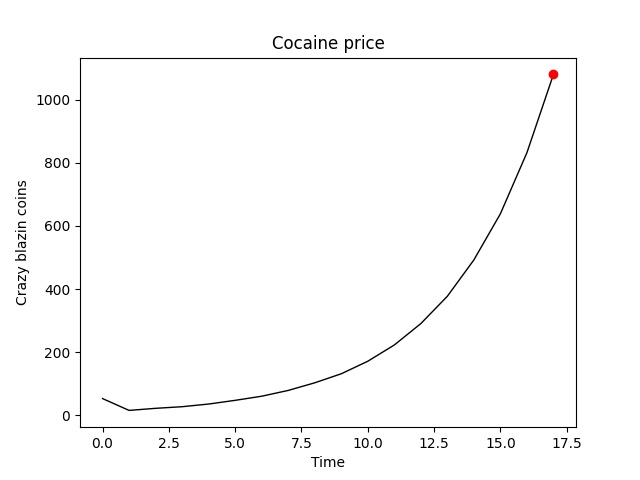
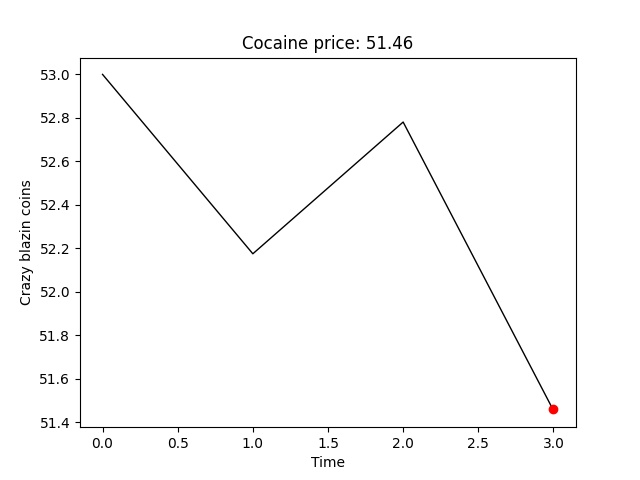
.

diff --git a/economy_bot/dev/cbm_dev.py b/economy_bot/dev/cbm_dev.py
@@ -22,7 +22,16 @@ import requests
 
 #https://discordapp.com/developers
 
-# k = 'ODMxOTE4MjA5NDA4OTU4NTE0.YHcONQ.rg3vu8FXZCXUOqtBwcdwCbZaNZ8'
+
+
+
+shop_items = {'Snake gun': [10, 100, 1, ':snake:'], 
+                'Revolver': [24, 200, 2, ':gun:'], 
+                'Acid dispenser': [38, 300, 3, ':leafy_green:'], 
+                'Ak47': [173, 950, 4, '<:ak47_emo:850092688132145192>'], 
+                'Battlecruiser': [510 , 3100, 5, ':ship:'],
+                'Ahegao Princess': [2110 , 25000, 6, '<:aegao:850090913815986198>']
+                }
 
 class Database:
     def __init__(self):
@@ -107,38 +116,51 @@ class Gullfugl:
         self.dmglog = {}
         self.name_list = ['An armored gullfugl', 'A cute gullfugl', 'A rare gullfugl', 'A retarded gullfugl']
         self.name = np.random.choice(self.name_list, 1)[0]
-        self.hp = np.random.randint(500,100000)
-        self.drop = self.hp*0.3
+        self.hp = np.random.randint(250,5000)
+        self.drop = self.hp*0.2
 
 
-class Cocaine:
-    def __init__(self):
-        self.price = [53]
+
+
+class Stonks:
+    stonks = []
+    def __init__(self, name = 'Cocaine', init_price = 53, drift = 0.002, variance = 1):
+        self.price = [init_price]
         self.current_price = self.price[-1]
+        self.name = name
+        self.variance = variance
+        self.drift = drift
+        self.stonks.append(self)
 
     
     def move_price(self):
-        self.price.append(0.002 + self.price[-1] + np.random.normal(0,1))
+        self.price.append(self.drift + self.price[-1] + np.random.normal(0, self.variance))
         if self.price[-1] <= 0:
-            self.price[-1] = 1
+            self.price[-1] = 0
 
-        self.current_price = self.price[-1]
+        self.current_price = round(self.price[-1], 2)
 
-        with open('cocaine.txt', 'a') as f:
-            f.write(str(self.price[-1]))
-        plt.plot(self.price[-1000:], linewidth = 1, color = 'black')
-        plt.plot(len(self.price[-1000:])-1, self.current_price, 'o', color = 'red')
-        plt.title(f'Cocaine price: {self.current_price}')
-        plt.ylabel('Crazy blazin coins')
-        plt.xlabel('Time')
-        plt.savefig('cocaine.jpg')
+    @staticmethod
+    def plot_results():
+        fig, ax = plt.subplots(1, len(Stonks.stonks))
+        colors = ['black', 'black']
+        color_tip = ['red', 'blue']
+        for i, stonk in enumerate(Stonks.stonks):
+            ax[i].plot(stonk.price[-1000:], linewidth = 1, color = colors[i])
+            ax[i].plot(len(stonk.price[-1000:])-1, stonk.current_price, 'o', color = color_tip[i])
+            ax[i].plot(len(stonk.price[-1000:])-1, stonk.current_price, 'o', color = color_tip[i], fillstyle = 'none', markersize = 10)
+            ax[i].plot(len(stonk.price[-1000:])-1, stonk.current_price, 'o', color = color_tip[i], fillstyle = 'none', markersize = 15)
+            ax[i].set_title(f'{i+1}. {stonk.name} \n price: {stonk.current_price}')
+            ax[i].set_ylabel('Crazy blazin coins')
+            ax[i].set_xlabel('Time')
+        plt.tight_layout()
+        plt.savefig('stonk.jpg')
         plt.close()
 
-        return self.current_price
 
 
-cocaine = Cocaine()
-
+cocaine = Stonks(name = 'Cocaine', init_price = 82.48, drift = 0.002, variance = 1)
+Ingamersh = Stonks(name = 'Ingamersh verksted', init_price = 159, drift = 0.001, variance = 5)
 
 
 class MyClient(discord.Client):
@@ -160,6 +182,8 @@ class MyClient(discord.Client):
                 users[member.name] = {'Coins': 500, 'Tickets': 1, 'Timer': 0, 'BoostTimer': 0, 'Boosters': 0, 'Actives': [], 'weapons': {'Kick': [2, 1, ':foot:']}}
             if 'cocaine' not in users[member.name]:
                 users[member.name]['cocaine'] = 0
+            if 'ingamersh' not in users[member.name]:
+                users[member.name]['ingamersh'] = 0
 
 
         members = self.get_all_members()
@@ -259,7 +283,9 @@ class MyClient(discord.Client):
             await channel.send(embed=embed)
 
 
-        cocaine.move_price() # move cocaine price
+        for stonk in Stonks.stonks:
+            stonk.move_price() # move cocaine price
+        Stonks.plot_results()
 
         events_handler.db.write(users)
         return users
@@ -374,11 +400,13 @@ async def on_message(message):
         ticket = users[message.author.name]['Tickets']
         boosts = users[message.author.name]['Boosters']
         cocaine_wealth = users[message.author.name]['cocaine']
+        ingamersh_wealth = users[message.author.name]['ingamersh']
         embed = discord.Embed(title=f"Balance", description=f"{message.author.name} current balance") #,color=Hex code
 
-        embed.add_field(name=f"<:CBCcoin:831506214659293214> (CBC)", value=f'{value}')
+        embed.add_field(name=f"<:CBCcoin:831506214659293214> (CBC)", value=f'{round(value,2)}')
         embed.add_field(name=f":tickets: (tickets)", value=f'{ticket}')
-        embed.add_field(name=f":salt: (cocaine)", value=f'{cocaine_wealth} worth: {cocaine_wealth*cocaine.current_price} <:CBCcoin:831506214659293214>')
+        embed.add_field(name=f":salt: (cocaine)", value=f'{cocaine_wealth} worth: {round(cocaine_wealth*cocaine.current_price,2)} <:CBCcoin:831506214659293214>')
+        embed.add_field(name=f":house_with_garden:  (Ingamersh verksted)", value=f'{ingamersh_wealth} worth: {round(ingamersh_wealth*Ingamersh.current_price,2)} <:CBCcoin:831506214659293214>')
         tot_dmg = 0
         for weapon in users[message.author.name]['weapons']:
             # [shop_items[weapon][1], amount]
@@ -552,7 +580,6 @@ async def on_message(message):
     
     if message.content.startswith('!shop'):
 
-        shop_items = {'Snake gun': [10, 100, 1, ':snake:'], 'Revolver': [24, 200, 2, ':gun:'], 'Acid dispenser': [38, 300, 3, ':leafy_green:'], 'Battlecruiser': [510 , 3100, 4, ':ship:']}
         embed = discord.Embed(title=f"Weapon Shop", description=f"Weapons for damaging the gullfugl! To buy item use !buy weapons <index> <amount>") #,color=Hex code
         for weapon in shop_items:
             dmg = shop_items[weapon][0]
@@ -570,7 +597,6 @@ async def on_message(message):
         else:
             index = int(str_split[2])*np.sign(int(str_split[2]))
             amount = int(str_split[-1])*np.sign(int(str_split[-1]))
-            shop_items = {'Snake gun': [10, 100, 1, ':snake:'], 'Revolver': [24, 200, 2, ':gun:'], 'Acid dispenser': [38, 300, 3, ':leafy_green:'], 'Battlecruiser': [510 , 3100, 4, ':ship:']}
 
             for weapon in shop_items:
                 if shop_items[weapon][2] == index:
@@ -587,26 +613,38 @@ async def on_message(message):
 
 
 
-    if message.content.startswith('!cocaine'):
-        embed = discord.Embed(title=f"Cocaine stonk", description=f"Historical and current price of cocaine. Buy item use !buy cocaine <amount> and !sell cocaine <amount>") #,color=Hex code
-        file = discord.File("cocaine.jpg", filename="cocaine.jpg")
+    if message.content.startswith('!stonks'):
+        embed = discord.Embed(title=f"Stonks", description=f"Historical and current price of stonks. Buy item use !buy stonks <index> <amount> and !sell stonks <index> <amount>") #,color=Hex code
+        file = discord.File("stonk.jpg", filename="stonk.jpg")
         await message.channel.send(file = file, embed=embed)
 
 
 
-    if message.content.startswith('!buy cocaine'):
+    if message.content.startswith('!buy stonks'):
         str_split = message.content.split(' ')
-        if len(str_split) > 3 or len(str_split) < 2:
-            await message.channel.send(f'Too many or few arguments. Use !buy cocaine <amount>')
+        if len(str_split) > 4 or len(str_split) < 3:
+            await message.channel.send(f'Too many or few arguments. Use !buy stonks <index> <amount>')
         else:
-            amount = int(str_split[2])*np.sign(int(str_split[2]))
-            price = cocaine.current_price*amount
-            if price <= users[message.author.name]['Coins']:
-                users[message.author.name]['cocaine'] += amount
-                users[message.author.name]['Coins'] -= price
-                await message.channel.send(f'{message.author.name} bought {amount} cocaine :salt: for {price} <:CBCcoin:831506214659293214>')
-            else:
-                await message.channel.send(f'{message.author.name} can not afford this much cocaine!')
+            amount = int(str_split[3])*np.sign(int(str_split[3]))
+            index = int(str_split[2])*np.sign(int(str_split[2]))
+            if index == 1:
+                price = round(cocaine.current_price*amount,2)
+                if price <= users[message.author.name]['Coins']:
+                    price = round(cocaine.current_price*amount,2)
+                    users[message.author.name]['cocaine'] += amount
+                    users[message.author.name]['Coins'] -= price
+                    await message.channel.send(f'{message.author.name} bought {amount} cocaine :salt: for {price} <:CBCcoin:831506214659293214> @ {round(cocaine.current_price,2)} per cocaine.')
+                else:
+                    await message.channel.send(f'{message.author.name} can not afford this much cocaine!')
+            if index == 2:
+                price = round(Ingamersh.current_price*amount,2)
+                if price <= users[message.author.name]['Coins']:
+                    price = round(Ingamersh.current_price*amount,2)
+                    users[message.author.name]['ingamersh'] += amount
+                    users[message.author.name]['Coins'] -= price
+                    await message.channel.send(f'{message.author.name} bought {amount} Ingamers verksted :house_with_garden: for {price} <:CBCcoin:831506214659293214> @ {round(Ingamersh.current_price,2)} per Ingamersh verksted.')
+                else:
+                    await message.channel.send(f'{message.author.name} can not afford this much Ingamers verksted!')
 
         events_handler.db.write(users)
 
@@ -614,16 +652,27 @@ async def on_message(message):
     if message.content.startswith('!sell cocaine'):
         str_split = message.content.split(' ')
         if len(str_split) > 3 or len(str_split) < 2:
-            await message.channel.send(f'Too many or few arguments. Use !sell cocaine <amount>')
+            await message.channel.send(f'Too many or few arguments. Use !sell cocaine <index> <amount>')
         else:
             amount = int(str_split[2])*np.sign(int(str_split[2]))
-            price = cocaine.current_price*amount
-            if amount <= users[message.author.name]['cocaine']:
-                users[message.author.name]['cocaine'] -= amount
-                users[message.author.name]['Coins'] += price
-                await message.channel.send(f'{message.author.name} sold {amount} cocaine :salt: for {price} <:CBCcoin:831506214659293214>')
-            else:
-                await message.channel.send(f'{message.author.name} does not own this much cocaine!')
+            index = int(str_split[2])*np.sign(int(str_split[2]))
+            if index == 1:
+                price = round(cocaine.current_price*amount,2)
+                if amount <= users[message.author.name]['cocaine']:
+                    users[message.author.name]['cocaine'] -= amount
+                    users[message.author.name]['Coins'] += price
+                    await message.channel.send(f'{message.author.name} sold {amount} cocaine :salt: for {price} <:CBCcoin:831506214659293214>  @ {round(cocaine.current_price,2)} per cocaine.')
+                else:
+                    await message.channel.send(f'{message.author.name} does not own this much cocaine!')
+            if index == 2:
+                price = round(Ingamersh.current_price*amount,2)
+                if price <= users[message.author.name]['Coins']:
+                    price = round(Ingamersh.current_price*amount,2)
+                    users[message.author.name]['ingamersh'] -= amount
+                    users[message.author.name]['Coins'] += price
+                    await message.channel.send(f'{message.author.name} bought {amount} Ingamers verksted :house_with_garden: for {price} <:CBCcoin:831506214659293214> @ {round(Ingamersh.current_price,2)} per Ingamersh verksted.')
+                else:
+                    await message.channel.send(f'{message.author.name} does not own this much Ingamers verksted!')
 
         events_handler.db.write(users)
 
